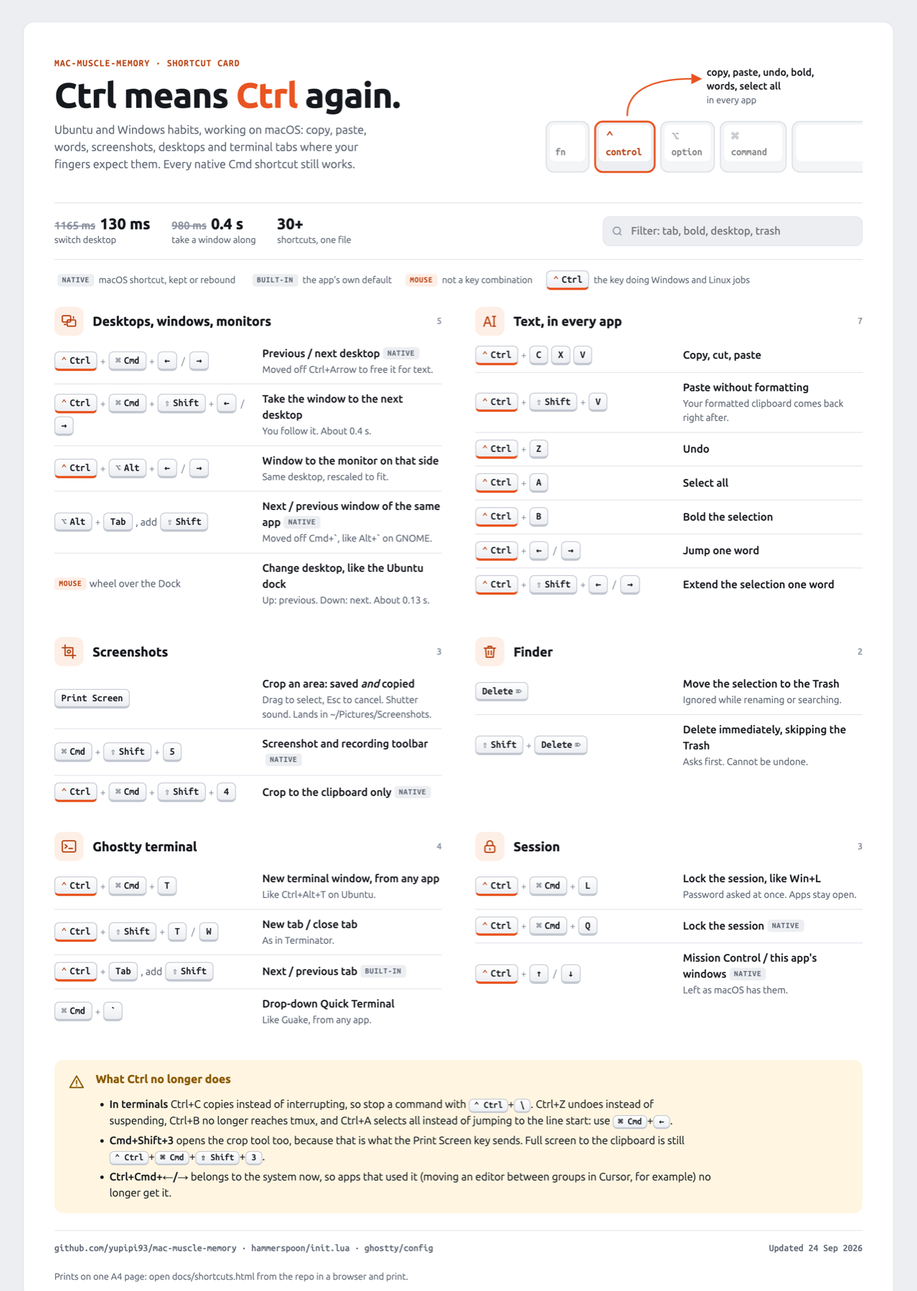
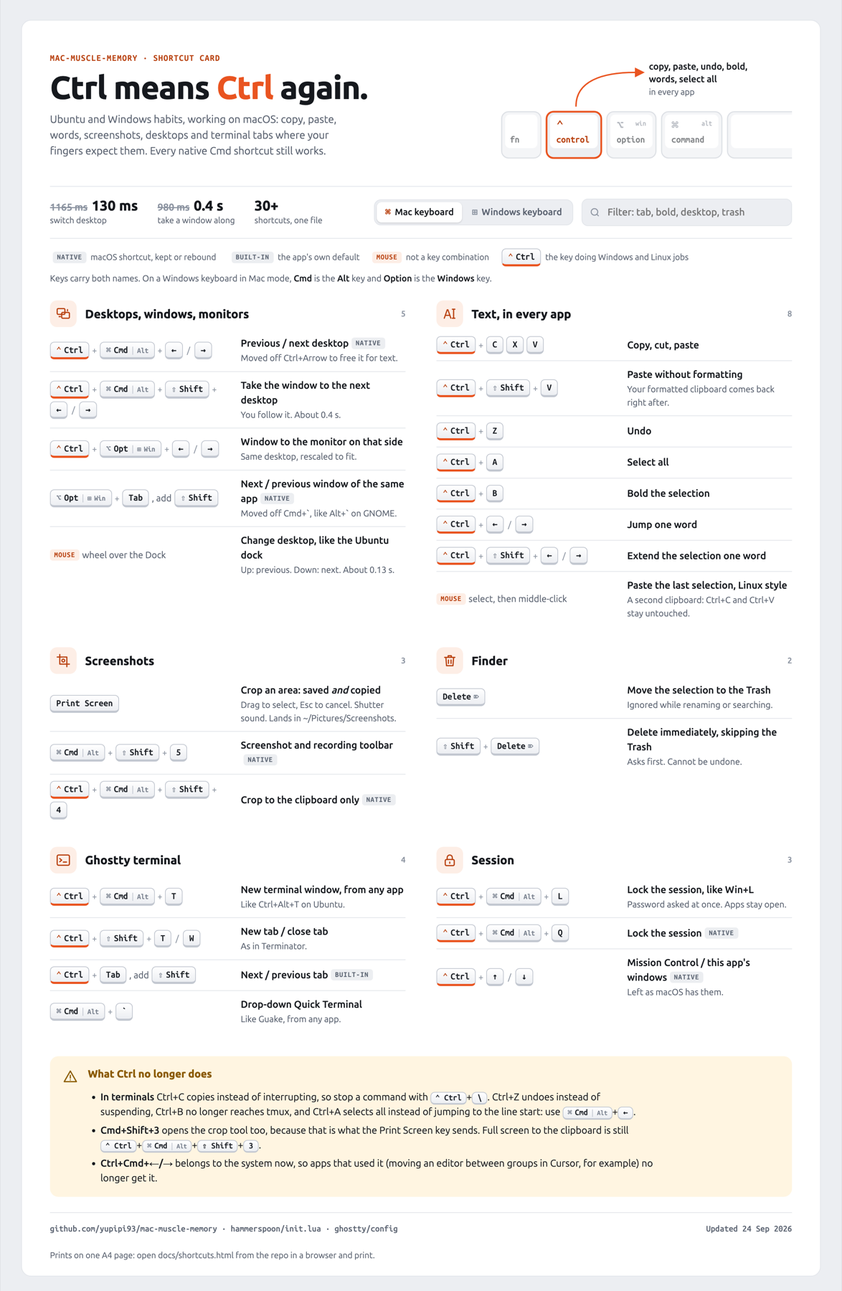
feat: Linux-style primary selection, and a Mac/Windows keyboard switch on the card
Selecting text copies it to a second clipboard and middle-click pastes it, as on Linux;
Ctrl+C / Ctrl+V are untouched. Captured through Accessibility, or by copy-and-restore where
an app exposes nothing. Middle-click pastes only over something editable or in Ghostty, so
links and tabs keep their middle click. Verified in TextEdit and Chrome.

The monitor shortcut uses Option, which is the Windows key on a Windows keyboard in Mac
mode; the card called it Alt. Every Cmd and Option key on the card now carries both names,
and a Mac / Windows keyboard switch decides which leads, keyboard drawing included. Prints
on one A4 page in both modes.

diff --git a/docs/shortcuts.html b/docs/shortcuts.html
@@ -137,7 +137,7 @@
   .stats b { font: 700 20px/1.1 var(--display); font-variant-numeric: tabular-nums; }
   .stats b s { color: var(--ink-faint); font-weight: 500; font-size: 14px; margin-right: 6px; text-decoration-thickness: 1.5px; }
   .stats span { font-size: 12px; color: var(--ink-soft); }
-  .filter { position: relative; flex: 1 1 240px; max-width: 340px; }
+  .filter { position: relative; flex: 1 1 220px; max-width: 300px; }
   .filter input {
     width: 100%;
     font: 500 14px/1.2 var(--body);
@@ -264,6 +264,32 @@
     @keyframes press { 0%, 70%, 100% { transform: translateY(0); } 76% { transform: translateY(3px); } 84% { transform: translateY(0); } }
   }
 
+
+  /* dual-legend keys: Mac and Windows names on one cap */
+  kbd.dual { gap: 0; }
+  kbd.dual .lm, kbd.dual .lw { display: inline-flex; align-items: baseline; gap: 4px; }
+  kbd.dual .lw { font-size: 0.8em; color: var(--cap-glyph); margin-left: 6px; padding-left: 6px; border-left: 1px solid var(--cap-edge); }
+  body.kb-win kbd.dual .lw { order: -1; font-size: 1em; color: var(--cap-ink); margin: 0; padding: 0; border: 0; }
+  body.kb-win kbd.dual .lm { font-size: 0.8em; color: var(--cap-glyph); margin-left: 6px; padding-left: 6px; border-left: 1px solid var(--cap-edge); }
+  body.kb-win kbd.dual .lw .g { color: var(--cap-glyph); }
+  .k-win { display: none; }
+  body.kb-win .k-win { display: inline; }
+  body.kb-win .k-mac { display: none; }
+  .cap-sub { font: 500 9px var(--mono); fill: var(--cap-glyph); }
+  .tools { display: flex; flex-wrap: wrap; align-items: center; gap: 10px 12px; flex: 1 1 360px; justify-content: flex-end; }
+  .kbswitch { display: inline-flex; gap: 2px; padding: 3px; background: var(--paper); border: 1px solid var(--rule); border-radius: 10px; }
+  .kbswitch button { display: inline-flex; align-items: center; gap: 6px; font: 600 13px/1 var(--body); color: var(--ink-soft); background: transparent; border: 0; border-radius: 7px; padding: 8px 12px; cursor: pointer; }
+  .kbswitch button span { color: var(--ink-faint); font-family: var(--mono); }
+  .kbswitch button[aria-pressed="true"] { background: var(--sheet); color: var(--ink); box-shadow: 0 1px 2px rgba(0, 0, 0, 0.14); }
+  .kbswitch button[aria-pressed="true"] span { color: var(--accent-ink); }
+  .kbswitch button:focus-visible { outline: 2px solid var(--accent); outline-offset: 1px; }
+  .kbnote { margin: 8px 0 0; font-size: 12.5px; color: var(--ink-soft); }
+  .kbnote b { color: var(--ink); font-weight: 600; }
+  .print-mode { display: none; }
+  .pm-win { display: none; }
+  body.kb-win .pm-win { display: inline; }
+  body.kb-win .pm-mac { display: none; }
+
   /* ---------- print: one A4 page ---------- */
   @page { size: A4 portrait; margin: 9mm 9mm; }
   @media print {
@@ -281,7 +307,9 @@
     .eyebrow { font-size: 9px; margin-bottom: 4px; }
     h1 { font-size: 25px; }
     .lede { font-size: 10.4px; margin-top: 5px; max-width: none; }
-    .bar .filter, .bar .stats, .screen-only { display: none; }
+    .bar .filter, .bar .stats, .kbswitch, .screen-only { display: none; }
+    .print-mode { display: inline; }
+    .kbnote { font-size: 9.2px; margin-top: 4px; }
     .bar { padding-block: 0; border: 0; }
     .legend { margin-top: 7px; font-size: 9.6px; }
     .groups { grid-template-columns: 1fr 1fr; gap: 11px 20px; padding-block: 10px 0; }
@@ -346,19 +374,21 @@
             <rect class="cap-body" x="70" y="96" width="78" height="66" rx="10"/>
             <rect class="cap-face" x="75" y="100" width="68" height="48" rx="7"/>
             <text class="cap-glyph" x="84" y="121">⌃</text>
-            <text class="cap-txt" x="84" y="140">control</text>
+            <text class="cap-txt k-mac" x="84" y="140">control</text><text class="cap-txt k-win" x="84" y="140">ctrl</text>
           </g>
           <g class="dim">
             <rect class="cap-body" x="156" y="96" width="70" height="66" rx="10"/>
             <rect class="cap-face" x="161" y="100" width="60" height="48" rx="7"/>
-            <text class="cap-glyph" x="170" y="121">⌥</text>
-            <text class="cap-txt" x="170" y="140">option</text>
+            <text class="cap-glyph k-mac" x="170" y="121">⌥</text>
+            <text class="cap-txt k-mac" x="170" y="140">option</text><text class="cap-txt k-win" x="170" y="140">win</text>
+            <text class="cap-sub k-mac" x="212" y="116" text-anchor="end">win</text><text class="cap-sub k-win" x="212" y="116" text-anchor="end">option</text>
           </g>
           <g class="dim">
             <rect class="cap-body" x="234" y="96" width="86" height="66" rx="10"/>
             <rect class="cap-face" x="239" y="100" width="76" height="48" rx="7"/>
-            <text class="cap-glyph" x="248" y="121">⌘</text>
-            <text class="cap-txt" x="248" y="140">command</text>
+            <text class="cap-glyph k-mac" x="248" y="121">⌘</text>
+            <text class="cap-txt k-mac" x="248" y="140">command</text><text class="cap-txt k-win" x="248" y="140">alt</text>
+            <text class="cap-sub k-mac" x="306" y="116" text-anchor="end">alt</text><text class="cap-sub k-win" x="306" y="116" text-anchor="end">command</text>
           </g>
           <g class="dim">
             <rect class="cap-body" x="328" y="96" width="120" height="66" rx="10"/>
@@ -374,10 +404,16 @@
         <li><b><s>980 ms</s>0.4 s</b><span>take a window along</span></li>
         <li><b>30+</b><span>shortcuts, one file</span></li>
       </ul>
+      <div class="tools">
+      <div class="kbswitch" role="group" aria-label="Keyboard">
+        <button type="button" id="kb-mac" data-kb="mac" aria-pressed="true"><span aria-hidden="true">⌘</span>Mac keyboard</button>
+        <button type="button" id="kb-win" data-kb="win" aria-pressed="false"><span aria-hidden="true">⊞</span>Windows keyboard</button>
+      </div>
       <label class="filter" for="filter">
         <svg viewBox="0 0 24 24" aria-hidden="true"><circle cx="11" cy="11" r="7"/><path d="m20 20-4-4"/></svg>
         <input id="filter" type="search" placeholder="Filter: tab, bold, desktop, trash" autocomplete="off" aria-label="Filter shortcuts">
       </label>
+      </div>
     </div>
 
     <div class="legend">
@@ -386,6 +422,7 @@
       <span><span class="tag mouse">mouse</span> not a key combination</span>
       <span><kbd class="ctrl"><span class="g">⌃</span>Ctrl</kbd> the key doing Windows and Linux jobs</span>
     </div>
+    <p class="kbnote">Keys carry both names. On a Windows keyboard in Mac mode, <b>Cmd</b> is the <b>Alt</b> key and <b>Option</b> is the <b>Windows</b> key.<span class="print-mode"> Printed with <span class="pm-mac">Mac</span><span class="pm-win">Windows</span> names first.</span></p>
 
     <div class="groups" id="groups">
       <section class="group" aria-labelledby="g-desk">
@@ -394,19 +431,19 @@
           <h2 id="g-desk">Desktops, windows, monitors</h2><span class="count">5</span>
         </div>
         <div class="row" data-k="space mission switch next previous">
-          <div class="keys"><kbd class="ctrl"><span class="g">⌃</span>Ctrl</kbd><i class="p">+</i><kbd><span class="g">⌘</span>Cmd</kbd><i class="p">+</i><kbd>←</kbd><i class="o">/</i><kbd>→</kbd></div>
+          <div class="keys"><kbd class="ctrl"><span class="g">⌃</span>Ctrl</kbd><i class="p">+</i><kbd class="dual"><span class="lm"><span class="g">⌘</span>Cmd</span><span class="lw">Alt</span></kbd><i class="p">+</i><kbd>←</kbd><i class="o">/</i><kbd>→</kbd></div>
           <div class="what">Previous / next desktop<span class="tag">native</span><span class="note">Moved off Ctrl+Arrow to free it for text.</span></div>
         </div>
         <div class="row" data-k="move window space follow">
-          <div class="keys"><kbd class="ctrl"><span class="g">⌃</span>Ctrl</kbd><i class="p">+</i><kbd><span class="g">⌘</span>Cmd</kbd><i class="p">+</i><kbd><span class="g">⇧</span>Shift</kbd><i class="p">+</i><kbd>←</kbd><i class="o">/</i><kbd>→</kbd></div>
+          <div class="keys"><kbd class="ctrl"><span class="g">⌃</span>Ctrl</kbd><i class="p">+</i><kbd class="dual"><span class="lm"><span class="g">⌘</span>Cmd</span><span class="lw">Alt</span></kbd><i class="p">+</i><kbd><span class="g">⇧</span>Shift</kbd><i class="p">+</i><kbd>←</kbd><i class="o">/</i><kbd>→</kbd></div>
           <div class="what">Take the window to the next desktop<span class="note">You follow it. About 0.4 s.</span></div>
         </div>
         <div class="row" data-k="monitor screen display move">
-          <div class="keys"><kbd class="ctrl"><span class="g">⌃</span>Ctrl</kbd><i class="p">+</i><kbd><span class="g">⌥</span>Alt</kbd><i class="p">+</i><kbd>←</kbd><i class="o">/</i><kbd>→</kbd></div>
+          <div class="keys"><kbd class="ctrl"><span class="g">⌃</span>Ctrl</kbd><i class="p">+</i><kbd class="dual"><span class="lm"><span class="g">⌥</span>Opt</span><span class="lw"><span class="g">⊞</span>Win</span></kbd><i class="p">+</i><kbd>←</kbd><i class="o">/</i><kbd>→</kbd></div>
           <div class="what">Window to the monitor on that side<span class="note">Same desktop, rescaled to fit.</span></div>
         </div>
         <div class="row" data-k="cycle windows same app alt tab option">
-          <div class="keys"><kbd><span class="g">⌥</span>Alt</kbd><i class="p">+</i><kbd>Tab</kbd><span class="word">, add</span><kbd><span class="g">⇧</span>Shift</kbd></div>
+          <div class="keys"><kbd class="dual"><span class="lm"><span class="g">⌥</span>Opt</span><span class="lw"><span class="g">⊞</span>Win</span></kbd><i class="p">+</i><kbd>Tab</kbd><span class="word">, add</span><kbd><span class="g">⇧</span>Shift</kbd></div>
           <div class="what">Next / previous window of the same app<span class="tag">native</span><span class="note">Moved off Cmd+`, like Alt+` on GNOME.</span></div>
         </div>
         <div class="row" data-k="scroll wheel dock ubuntu">
@@ -418,7 +455,7 @@
       <section class="group" aria-labelledby="g-text">
         <div class="group-head">
           <span class="badge"><svg viewBox="0 0 24 24" aria-hidden="true"><path d="M3.5 19 8 6h1.2L13.7 19M5.3 14.5h6.2"/><path d="M18 5v14M16 5h4M16 19h4"/></svg></span>
-          <h2 id="g-text">Text, in every app</h2><span class="count">7</span>
+          <h2 id="g-text">Text, in every app</h2><span class="count">8</span>
         </div>
         <div class="row" data-k="copy cut paste clipboard">
           <div class="keys"><kbd class="ctrl"><span class="g">⌃</span>Ctrl</kbd><i class="p">+</i><kbd>C</kbd><kbd>X</kbd><kbd>V</kbd></div>
@@ -448,6 +485,10 @@
           <div class="keys"><kbd class="ctrl"><span class="g">⌃</span>Ctrl</kbd><i class="p">+</i><kbd><span class="g">⇧</span>Shift</kbd><i class="p">+</i><kbd>←</kbd><i class="o">/</i><kbd>→</kbd></div>
           <div class="what">Extend the selection one word</div>
         </div>
+        <div class="row" data-k="primary selection middle click paste linux mouse wheel">
+          <div class="keys"><span class="tag mouse">mouse</span><span class="word">select, then middle-click</span></div>
+          <div class="what">Paste the last selection, Linux style<span class="note">A second clipboard: Ctrl+C and Ctrl+V stay untouched.</span></div>
+        </div>
       </section>
 
       <section class="group" aria-labelledby="g-shot">
@@ -460,11 +501,11 @@
           <div class="what">Crop an area: saved <em>and</em> copied<span class="note">Drag to select, Esc to cancel. Shutter sound. Lands in ~/Pictures/Screenshots.</span></div>
         </div>
         <div class="row" data-k="screenshot toolbar record video">
-          <div class="keys"><kbd><span class="g">⌘</span>Cmd</kbd><i class="p">+</i><kbd><span class="g">⇧</span>Shift</kbd><i class="p">+</i><kbd>5</kbd></div>
+          <div class="keys"><kbd class="dual"><span class="lm"><span class="g">⌘</span>Cmd</span><span class="lw">Alt</span></kbd><i class="p">+</i><kbd><span class="g">⇧</span>Shift</kbd><i class="p">+</i><kbd>5</kbd></div>
           <div class="what">Screenshot and recording toolbar<span class="tag">native</span></div>
         </div>
         <div class="row" data-k="screenshot crop clipboard only">
-          <div class="keys"><kbd class="ctrl"><span class="g">⌃</span>Ctrl</kbd><i class="p">+</i><kbd><span class="g">⌘</span>Cmd</kbd><i class="p">+</i><kbd><span class="g">⇧</span>Shift</kbd><i class="p">+</i><kbd>4</kbd></div>
+          <div class="keys"><kbd class="ctrl"><span class="g">⌃</span>Ctrl</kbd><i class="p">+</i><kbd class="dual"><span class="lm"><span class="g">⌘</span>Cmd</span><span class="lw">Alt</span></kbd><i class="p">+</i><kbd><span class="g">⇧</span>Shift</kbd><i class="p">+</i><kbd>4</kbd></div>
           <div class="what">Crop to the clipboard only<span class="tag">native</span></div>
         </div>
       </section>
@@ -490,7 +531,7 @@
           <h2 id="g-term">Ghostty terminal</h2><span class="count">4</span>
         </div>
         <div class="row" data-k="terminal new window ghostty">
-          <div class="keys"><kbd class="ctrl"><span class="g">⌃</span>Ctrl</kbd><i class="p">+</i><kbd><span class="g">⌘</span>Cmd</kbd><i class="p">+</i><kbd>T</kbd></div>
+          <div class="keys"><kbd class="ctrl"><span class="g">⌃</span>Ctrl</kbd><i class="p">+</i><kbd class="dual"><span class="lm"><span class="g">⌘</span>Cmd</span><span class="lw">Alt</span></kbd><i class="p">+</i><kbd>T</kbd></div>
           <div class="what">New terminal window, from any app<span class="note">Like Ctrl+Alt+T on Ubuntu.</span></div>
         </div>
         <div class="row" data-k="terminal tab new close terminator">
@@ -502,7 +543,7 @@
           <div class="what">Next / previous tab<span class="tag">built-in</span></div>
         </div>
         <div class="row" data-k="quick terminal dropdown guake">
-          <div class="keys"><kbd><span class="g">⌘</span>Cmd</kbd><i class="p">+</i><kbd>`</kbd></div>
+          <div class="keys"><kbd class="dual"><span class="lm"><span class="g">⌘</span>Cmd</span><span class="lw">Alt</span></kbd><i class="p">+</i><kbd>`</kbd></div>
           <div class="what">Drop-down Quick Terminal<span class="note">Like Guake, from any app.</span></div>
         </div>
       </section>
@@ -513,11 +554,11 @@
           <h2 id="g-session">Session</h2><span class="count">3</span>
         </div>
         <div class="row" data-k="lock session screen win+l">
-          <div class="keys"><kbd class="ctrl"><span class="g">⌃</span>Ctrl</kbd><i class="p">+</i><kbd><span class="g">⌘</span>Cmd</kbd><i class="p">+</i><kbd>L</kbd></div>
+          <div class="keys"><kbd class="ctrl"><span class="g">⌃</span>Ctrl</kbd><i class="p">+</i><kbd class="dual"><span class="lm"><span class="g">⌘</span>Cmd</span><span class="lw">Alt</span></kbd><i class="p">+</i><kbd>L</kbd></div>
           <div class="what">Lock the session, like Win+L<span class="note">Password asked at once. Apps stay open.</span></div>
         </div>
         <div class="row" data-k="lock session screen">
-          <div class="keys"><kbd class="ctrl"><span class="g">⌃</span>Ctrl</kbd><i class="p">+</i><kbd><span class="g">⌘</span>Cmd</kbd><i class="p">+</i><kbd>Q</kbd></div>
+          <div class="keys"><kbd class="ctrl"><span class="g">⌃</span>Ctrl</kbd><i class="p">+</i><kbd class="dual"><span class="lm"><span class="g">⌘</span>Cmd</span><span class="lw">Alt</span></kbd><i class="p">+</i><kbd>Q</kbd></div>
           <div class="what">Lock the session<span class="tag">native</span></div>
         </div>
         <div class="row" data-k="mission control expose windows">
@@ -532,8 +573,8 @@
       <svg viewBox="0 0 24 24" aria-hidden="true"><path d="M12 3.5 21.5 20h-19Z"/><path d="M12 10v4.5M12 17.2v.1"/></svg>
       <h2 id="t-head">What Ctrl no longer does</h2>
       <ul>
-        <li><strong>In terminals</strong> Ctrl+C copies instead of interrupting, so stop a command with <kbd>⌃ Ctrl</kbd>+<kbd>\</kbd>. Ctrl+Z undoes instead of suspending, Ctrl+B no longer reaches tmux, and Ctrl+A selects all instead of jumping to the line start: use <kbd>⌘ Cmd</kbd>+<kbd>←</kbd>.</li>
-        <li><strong>Cmd+Shift+3</strong> opens the crop tool too, because that is what the Print Screen key sends. Full screen to the clipboard is still <kbd>⌃ Ctrl</kbd>+<kbd>⌘ Cmd</kbd>+<kbd>⇧ Shift</kbd>+<kbd>3</kbd>.</li>
+        <li><strong>In terminals</strong> Ctrl+C copies instead of interrupting, so stop a command with <kbd>⌃ Ctrl</kbd>+<kbd>\</kbd>. Ctrl+Z undoes instead of suspending, Ctrl+B no longer reaches tmux, and Ctrl+A selects all instead of jumping to the line start: use <kbd class="dual"><span class="lm"><span class="g">⌘</span>Cmd</span><span class="lw">Alt</span></kbd>+<kbd>←</kbd>.</li>
+        <li><strong>Cmd+Shift+3</strong> opens the crop tool too, because that is what the Print Screen key sends. Full screen to the clipboard is still <kbd>⌃ Ctrl</kbd>+<kbd class="dual"><span class="lm"><span class="g">⌘</span>Cmd</span><span class="lw">Alt</span></kbd>+<kbd>⇧ Shift</kbd>+<kbd>3</kbd>.</li>
         <li><strong>Ctrl+Cmd+←/→</strong> belongs to the system now, so apps that used it (moving an editor between groups in Cursor, for example) no longer get it.</li>
       </ul>
     </aside>
@@ -546,6 +587,25 @@
   </div>
 </main>
 <script>
+  (function () {
+    var KEY = "mac-muscle-memory.keyboard";
+    function setKb(mode, save) {
+      document.body.classList.toggle("kb-win", mode === "win");
+      ["mac", "win"].forEach(function (m) {
+        var btn = document.getElementById("kb-" + m);
+        if (btn) btn.setAttribute("aria-pressed", String(m === mode));
+      });
+      if (save) { try { localStorage.setItem(KEY, mode); } catch (e) {} }
+    }
+    var initial = "mac";
+    try { initial = localStorage.getItem(KEY) || initial; } catch (e) {}
+    if (location.hash === "#windows") initial = "win";
+    if (location.hash === "#mac") initial = "mac";
+    setKb(initial, false);
+    document.querySelectorAll(".kbswitch button").forEach(function (btn) {
+      btn.addEventListener("click", function () { setKb(btn.getAttribute("data-kb"), true); });
+    });
+  })();
   (function () {
     var input = document.getElementById("filter");
     var empty = document.getElementById("empty");

diff --git a/docs/settings.md b/docs/settings.md
@@ -48,7 +48,7 @@ Provides:
 - **Ctrl+Cmd+Shift+Left / Right** (Ctrl+Shift+Left / Right until 2026-09-24) move the focused
   window to the adjacent desktop and
   follow it.
-- **Ctrl+Alt+Left / Ctrl+Alt+Right** move the focused window to the adjacent monitor.
+- **Ctrl+Option+Left / Ctrl+Option+Right** move the focused window to the adjacent monitor.
 
 Tunables at the top of the file:
 
@@ -115,7 +115,8 @@ keyboard and `defaults` knows nothing about it, so record every remap in `person
 
 ## Moving a window between monitors
 
-**Ctrl+Alt+Left / Ctrl+Alt+Right.** Nothing to do with Spaces: this is plain geometry, so
+**Ctrl+Option+Left / Ctrl+Option+Right.** On a Windows keyboard in Mac mode, Option is the
+Windows key, not Alt; Hammerspoon calls the modifier `alt`. Nothing to do with Spaces: this is plain geometry, so
 `hs.window:moveToScreen` works and none of the broken APIs apply. It is the one thing on this
 machine that needed no workaround.
 
@@ -350,6 +351,47 @@ Still bound to Ctrl+Arrow by the system: **Ctrl+Up** (Mission Control) and **Ctr
 Possible conflict: some apps use Ctrl+Cmd+Left / Right themselves, for example VS Code family
 editors for moving an editor between groups. The system shortcut wins, so those app bindings no
 longer fire.
+
+## Select to copy, middle-click to paste
+
+The X11 primary selection that Ubuntu users rely on, added 2026-09-24. Selecting text copies it
+to a **second clipboard**; the middle mouse button pastes it. Ctrl+C / Ctrl+V and the normal
+clipboard are never affected.
+
+**Capture.** After a drag, a double or triple click, or a Shift+click, `init.lua` reads the
+selection:
+
+1. Through Accessibility (`AXSelectedText` of the focused element), which touches nothing.
+2. If the app does not expose it (Chrome and Electron apps report no focused element at all,
+   terminals expose no selection), it sends Cmd+C and restores the clipboard straight after,
+   every type, from `hs.pasteboard.readAllData()`.
+
+It only tries when the focused element holds text, or when the app exposes no accessibility at
+all. Finder is excluded outright: dragging there selects files.
+
+**Paste.** Only where there is something editable under the pointer, as Ubuntu does: a text
+field, a text area, a web editor with an editable ancestor, or an app in
+`PRIMARY_PASTE_ANYWHERE_APPS` (Ghostty by default). The caret is first moved to the pointer with
+a click, then the text is pasted with the same clipboard-preserving swap as Ctrl+Shift+V.
+Anywhere else the middle click passes through untouched: opening a link in a new tab or closing
+a tab keep working.
+
+**Limitation, measured.** Chrome and Electron apps such as Cursor expose nothing under the
+pointer (only a generic scroll area, even with `AXManualAccessibility` set), so there is no way
+to tell a text field from a link or a tab. Selecting in them **does** capture; middle-click
+pasting into them is **off** by default so links and tabs keep their middle-click behaviour. Add
+an app's bundle id to `PRIMARY_PASTE_ANYWHERE_APPS` to paste there regardless.
+
+Verified:
+
+| Where | Action | Result |
+|-------|--------|--------|
+| TextEdit, `alfa beta gamma`, clipboard holding `NORMAL` | double-click `beta` | second clipboard `beta`, clipboard still `NORMAL` |
+| same | drag across `gamma` | second clipboard `gamma`, clipboard still `NORMAL` |
+| same | middle-click after the text | document `alfa beta gammabeta`, clipboard still `NORMAL` |
+| Chrome, a web page | double-click a word | captured through the copy-and-restore path, clipboard restored |
+
+`PRIMARY_ENABLED = false` in `init.lua` turns it off.
 
 ## Next window of the same app: Option+Tab
 

diff --git a/README.md b/README.md
@@ -35,17 +35,21 @@ the way so nobody has to rediscover it.
 |------|------|----------------|
 | <kbd>Ctrl</kbd> <kbd>C</kbd> / <kbd>X</kbd> / <kbd>V</kbd> / <kbd>Z</kbd> / <kbd>A</kbd> / <kbd>B</kbd> | copy, cut, paste, undo, select all, bold, in every app | Cmd instead of Ctrl |
 | <kbd>Ctrl</kbd> <kbd>Shift</kbd> <kbd>V</kbd> | paste without formatting, in every app | a different shortcut per app, or none |
+| Select text, then middle-click | paste the last selection, Linux style, from a second clipboard that Ctrl+C / Ctrl+V never touch | nothing |
 | <kbd>Ctrl</kbd> <kbd>←</kbd> <kbd>→</kbd>, add <kbd>Shift</kbd> to select | jump and select by word | Option+Arrow |
 | <kbd>Print Screen</kbd> | crop an area, save it **and** copy it | no such key |
 | <kbd>Delete</kbd> / <kbd>Shift</kbd> <kbd>Delete</kbd> in Finder | move to Trash / delete immediately, with confirmation | Cmd+Backspace / Option+Cmd+Backspace |
 | Mouse wheel over the Dock | previous / next desktop, like the Ubuntu dock | nothing |
 | <kbd>Ctrl</kbd> <kbd>Cmd</kbd> <kbd>←</kbd> <kbd>→</kbd> | switch desktop, about 0.13 s | Ctrl+Arrow, about 1.2 s |
 | <kbd>Ctrl</kbd> <kbd>Cmd</kbd> <kbd>Shift</kbd> <kbd>←</kbd> <kbd>→</kbd> | take the window to the next desktop | drag it to the screen edge and wait |
-| <kbd>Ctrl</kbd> <kbd>Alt</kbd> <kbd>←</kbd> <kbd>→</kbd> | move the window to the next monitor | drag it across |
+| <kbd>Ctrl</kbd> <kbd>Option</kbd> <kbd>←</kbd> <kbd>→</kbd> | move the window to the next monitor | drag it across |
 | <kbd>Option</kbd> <kbd>Tab</kbd>, add <kbd>Shift</kbd> to go back | next window of the same app, like Alt+` on GNOME | Cmd+` |
 | <kbd>Ctrl</kbd> <kbd>Cmd</kbd> <kbd>L</kbd> | lock the session, like Win+L | Ctrl+Cmd+Q |
 | <kbd>Ctrl</kbd> <kbd>Cmd</kbd> <kbd>T</kbd> | new terminal window, like Ctrl+Alt+T | nothing |
 | <kbd>Ctrl</kbd> <kbd>Shift</kbd> <kbd>T</kbd> / <kbd>W</kbd> in Ghostty | new tab / close tab, as in Terminator | Cmd+T / Cmd+W |
+
+**Using a Windows keyboard?** In Mac mode, Cmd is its Alt key and Option is its Windows key. The
+shortcut card prints both names on every key and has a **Mac / Windows keyboard** switch.
 
 Plus: the mouse wheel scrolls like Windows and Linux, desktops keep a fixed order, screenshots
 land in `~/Pictures/Screenshots` instead of the Desktop, and Ghostty is set up with Linux

diff --git a/CHANGELOG.md b/CHANGELOG.md
@@ -88,6 +88,22 @@ have moved, one canvas per display, tunable via `HINT_DURATION` and `HINT_ALPHA`
 draw it, its speed is ours to choose, unlike the native animation. Measured cost: none, the
 switch still medians 130 ms.
 
+## 2026-09-24, Linux primary selection, and keys named for Mac and Windows keyboards
+
+- **Select to copy, middle-click to paste**, from a second clipboard that Ctrl+C / Ctrl+V never
+  touch. Captured through Accessibility, or by copy-and-restore where an app exposes nothing.
+  Middle-click pastes only over something editable (or in Ghostty), so links and tabs keep their
+  middle-click behaviour. Verified in TextEdit (double-click, drag, paste, clipboard untouched)
+  and Chrome (capture). Pasting into Chrome and Electron apps is off by default: they expose no
+  way to tell a text field from a link.
+- `pastePlain` and the new paste share one clipboard-preserving helper.
+- **Naming fixed**: the monitor shortcut uses Option, which on a Windows keyboard in Mac mode is
+  the Windows key, not Alt. The card labelled it "Alt". Docs now say Ctrl+Option.
+- **Shortcut card**: every Cmd and Option key carries both names (Cmd/Alt, Option/Win), like a
+  dual-legend keycap, and a **Mac keyboard / Windows keyboard** switch picks which name leads,
+  including on the keyboard drawing. Remembered per browser, linkable with `#windows`. Print keeps
+  both names, so one printout serves both; checked at one A4 page in each mode.
+
 ## 2026-09-24, the shortcut card redesigned
 
 The card is the repository's public face, so it was rebuilt rather than patched:

diff --git a/docs/tools.md b/docs/tools.md
@@ -22,9 +22,10 @@ repo file and reloading Hammerspoon is the whole workflow.
 What it provides, each explained in `settings.md`:
 
 - Scroll over the Dock to change desktop.
-- Ctrl+Cmd+Shift+Arrow to take a window to the next desktop, Ctrl+Alt+Arrow to the next monitor.
+- Ctrl+Cmd+Shift+Arrow to take a window to the next desktop, Ctrl+Option+Arrow to the next monitor.
 - Ctrl+C / X / V / Z / A, Ctrl+Shift+V, Ctrl+Arrow and Ctrl+Shift+Arrow in every app.
 - Print Screen crops, saves and copies. Delete and Shift+Delete in Finder.
+- Select text and middle-click to paste it, from a second clipboard, as on Linux.
 - Ctrl+Cmd+L to lock, Ctrl+Cmd+T for a new Ghostty window.
 
 Two techniques do most of the work, and both are documented because neither is obvious:
